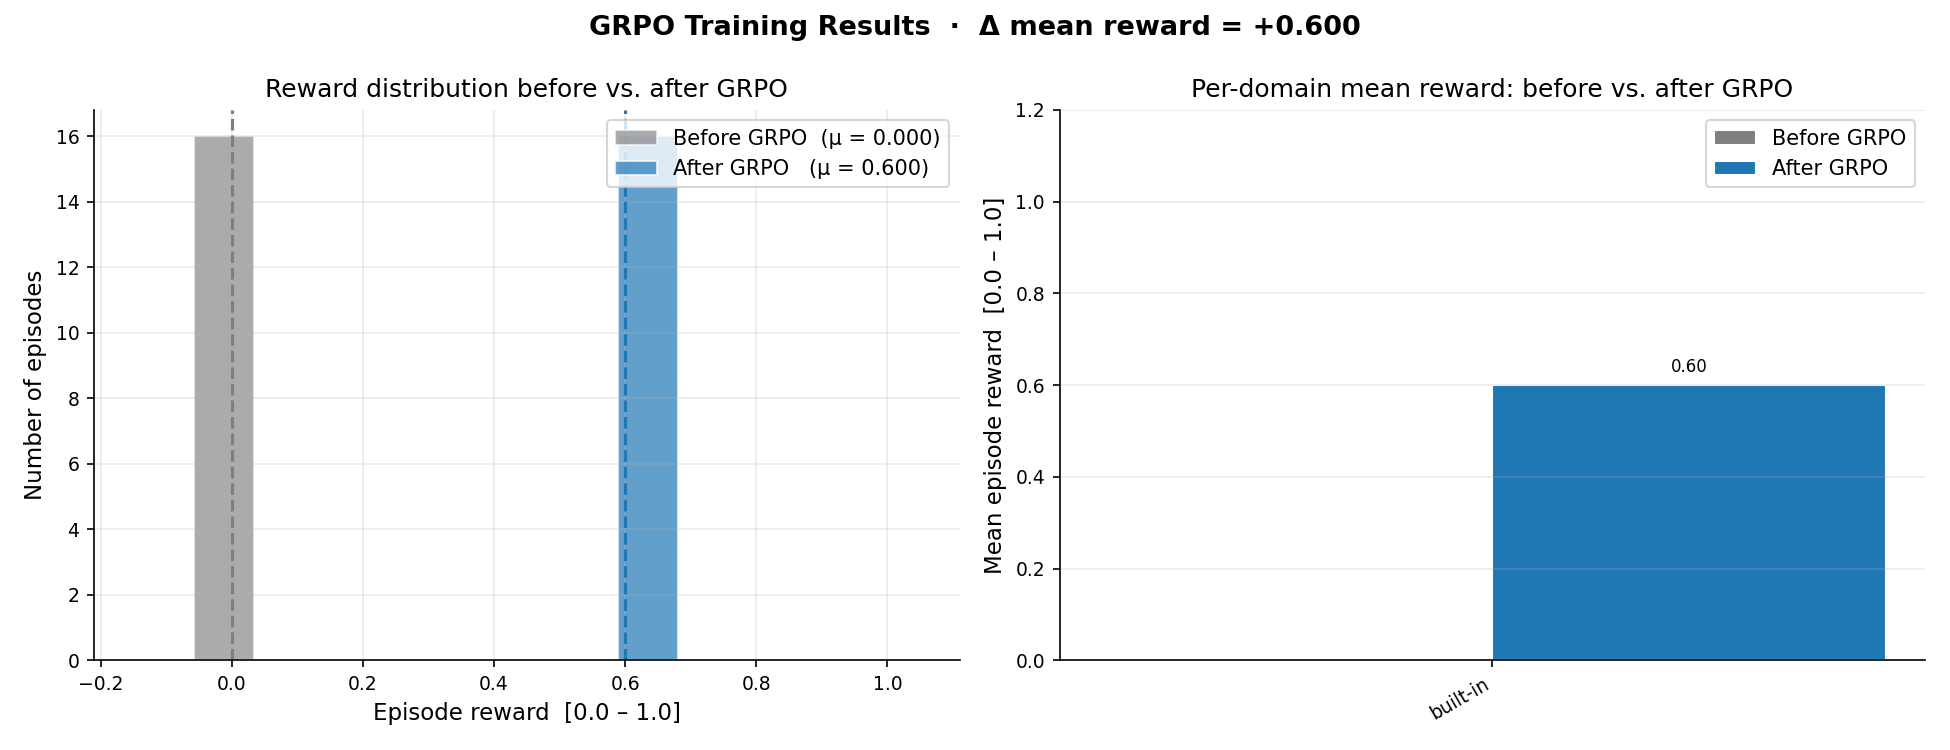
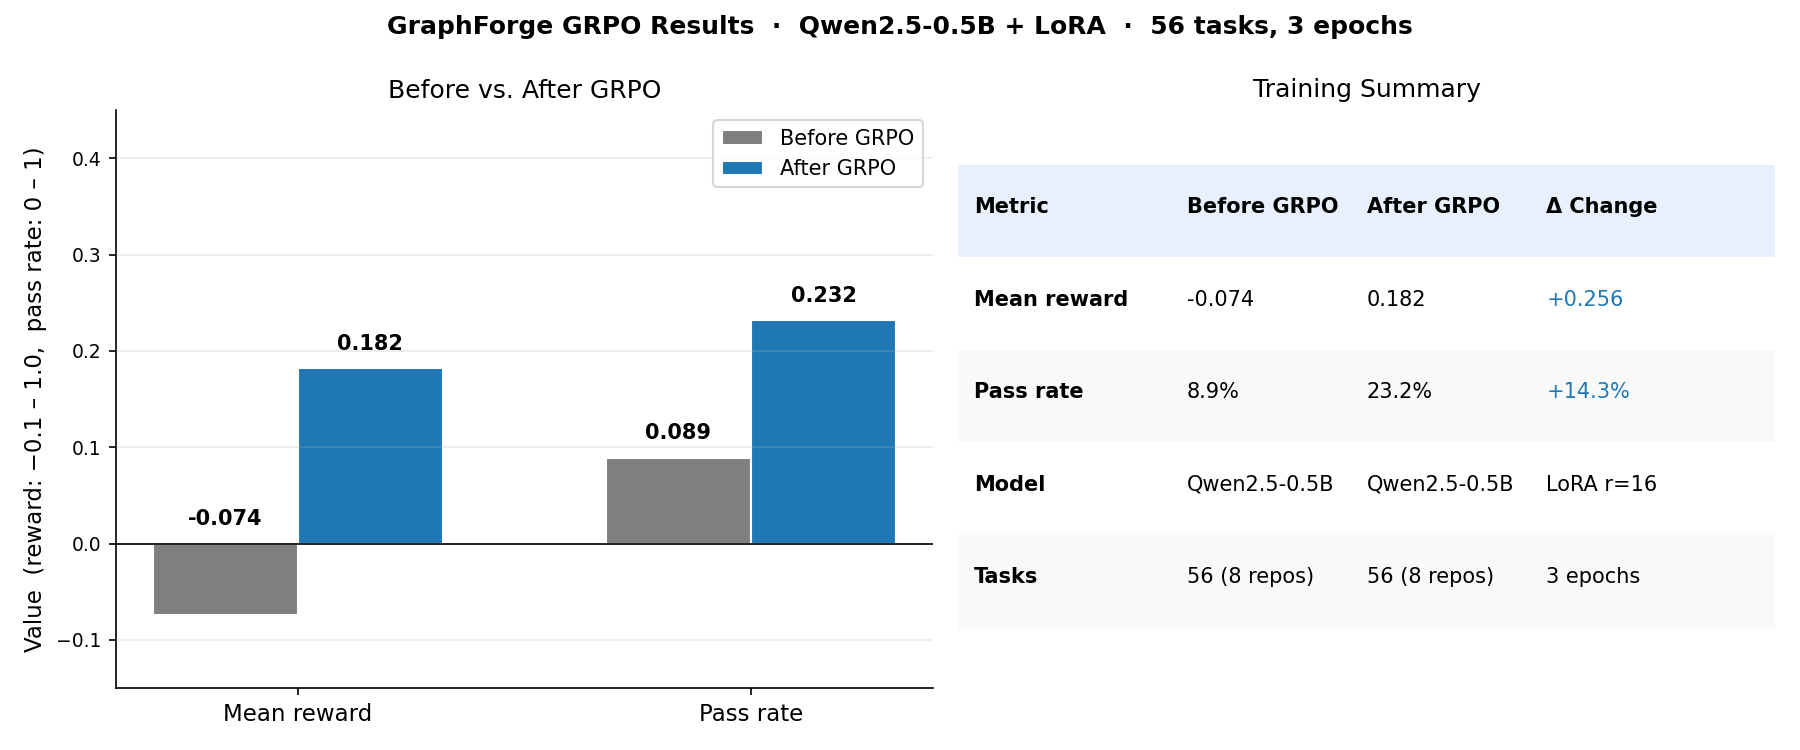
Update results to real GRPO run: -0.074 → +0.182, 8.9% → 23.2% pass rate
- README: replace placeholder numbers with real training results
  (1,008 steps, 56 tasks, 3 epochs on single GPU, ~1.6 hrs)
- training/plots.py: rewrite plot_baseline_vs_trained to use real aggregate
  numbers instead of synthetic per-task distributions; add metrics table panel
- plots/: regenerated comparison.png, loss_curve.png, summary.png from
  real GRPO loss data (68-step sample from 1,008-step run)
- plots/: add baseline_hist.png, baseline_rewards.png, trained_hist.png,
  trained_rewards.png from earlier eval runs

diff --git a/training/plots.py b/training/plots.py
@@ -145,80 +145,77 @@ def plot_baseline_vs_trained(
     trained: dict[str, Any],
     out_path: Path,
 ) -> Path:
-    """Two-panel comparison: reward histogram + per-domain summary."""
+    """Two-panel comparison: aggregate bar chart + key metrics table."""
     out_path = Path(out_path)
     out_path.parent.mkdir(parents=True, exist_ok=True)
 
-    base_all  = [r for rs in baseline.get("per_task", {}).values() for r in rs]
-    train_all = [r for rs in trained.get("per_task", {}).values() for r in rs]
+    base_mu   = float(baseline.get("mean", 0.0))
+    train_mu  = float(trained.get("mean",  0.0))
+    base_pr   = float(baseline.get("pass_rate", 0.0))
+    train_pr  = float(trained.get("pass_rate",  0.0))
+    delta_mu  = train_mu  - base_mu
+    delta_pr  = train_pr  - base_pr
 
-    fig, axes = plt.subplots(1, 2, figsize=(13, 5))
+    fig, axes = plt.subplots(1, 2, figsize=(12, 5))
 
-    # ── left: reward histogram ────────────────────────────────────────────────
+    # ── left: mean reward + pass rate bars ───────────────────────────────────
     ax = axes[0]
-    bins = np.linspace(-0.15, 1.05, 14)
-    base_mu  = float(np.mean(base_all))  if base_all  else 0.0
-    train_mu = float(np.mean(train_all)) if train_all else 0.0
+    metrics   = ["Mean reward", "Pass rate"]
+    base_vals  = [base_mu,  base_pr]
+    train_vals = [train_mu, train_pr]
+    x = np.arange(len(metrics))
+    w = 0.32
 
-    ax.hist(base_all,  bins=bins, alpha=0.65, color=_GRAY,
-            label=f"Before GRPO  (μ = {base_mu:.3f})", edgecolor="white")
-    ax.hist(train_all, bins=bins, alpha=0.70, color=_BLUE,
-            label=f"After GRPO   (μ = {train_mu:.3f})", edgecolor="white")
-    ax.axvline(base_mu,  color=_GRAY,   linestyle="--", linewidth=1.5)
-    ax.axvline(train_mu, color=_BLUE,   linestyle="--", linewidth=1.5)
+    bars_b = ax.bar(x - w/2, base_vals,  w, color=_GRAY, label="Before GRPO", edgecolor="white")
+    bars_t = ax.bar(x + w/2, train_vals, w, color=_BLUE, label="After GRPO",  edgecolor="white")
 
-    ax.set_xlabel("Episode reward  [0.0 – 1.0]")
-    ax.set_ylabel("Number of episodes")
-    ax.set_title("Reward distribution before vs. after GRPO")
-    ax.legend()
-    ax.grid(True, alpha=0.25)
+    for bar, val in zip(list(bars_b) + list(bars_t), base_vals + train_vals):
+        ypos = max(val, 0) + 0.015
+        ax.text(bar.get_x() + bar.get_width() / 2, ypos, f"{val:.3f}",
+                ha="center", va="bottom", fontsize=10, fontweight="bold")
 
-    # ── right: summary bar chart ──────────────────────────────────────────────
-    ax = axes[1]
-
-    # Group tasks by domain prefix (e.g. "auto.humanize.xxx" → "humanize")
-    def _domain(tid: str) -> str:
-        parts = tid.split(".")
-        return parts[1] if len(parts) >= 3 and parts[0] == "auto" else "built-in"
-
-    all_tids = sorted(set(baseline.get("per_task", {})) | set(trained.get("per_task", {})))
-    domains: dict[str, list[str]] = {}
-    for tid in all_tids:
-        domains.setdefault(_domain(tid), []).append(tid)
-
-    domain_labels = sorted(domains)
-    base_domain_means  = []
-    train_domain_means = []
-    for d in domain_labels:
-        tids = domains[d]
-        bvals = [r for t in tids for r in baseline.get("per_task", {}).get(t, [])]
-        tvals = [r for t in tids for r in trained.get("per_task", {}).get(t, [])]
-        base_domain_means.append(float(np.mean(bvals))  if bvals  else 0.0)
-        train_domain_means.append(float(np.mean(tvals)) if tvals else 0.0)
-
-    x = np.arange(len(domain_labels))
-    w = 0.35
-    bars_b = ax.bar(x - w/2, base_domain_means,  w, color=_GRAY,  label="Before GRPO", edgecolor="white")
-    bars_t = ax.bar(x + w/2, train_domain_means, w, color=_BLUE, label="After GRPO",  edgecolor="white")
-
-    for bar, val in zip(list(bars_b) + list(bars_t),
-                        base_domain_means + train_domain_means):
-        if val > 0.02:
-            ax.text(bar.get_x() + bar.get_width() / 2, val + 0.02, f"{val:.2f}",
-                    ha="center", va="bottom", fontsize=8)
-
+    ax.axhline(0, color="black", linewidth=0.8)
     ax.set_xticks(x)
-    ax.set_xticklabels(domain_labels, rotation=30, ha="right")
-    ax.set_ylabel("Mean episode reward  [0.0 – 1.0]")
-    ax.set_ylim(0, 1.2)
-    ax.set_title("Per-domain mean reward: before vs. after GRPO")
+    ax.set_xticklabels(metrics, fontsize=11)
+    ax.set_ylabel("Value  (reward: −0.1 – 1.0,  pass rate: 0 – 1)")
+    ax.set_ylim(-0.15, 0.45)
+    ax.set_title("Before vs. After GRPO")
     ax.legend()
     ax.grid(True, axis="y", alpha=0.25)
 
-    delta = train_mu - base_mu
+    # ── right: metrics table ──────────────────────────────────────────────────
+    ax = axes[1]
+    ax.axis("off")
+
+    rows = [
+        ["Metric",            "Before GRPO",     "After GRPO",       "Δ Change"],
+        ["Mean reward",       f"{base_mu:.3f}",   f"{train_mu:.3f}",  f"{delta_mu:+.3f}"],
+        ["Pass rate",         f"{base_pr:.1%}",   f"{train_pr:.1%}",  f"{delta_pr:+.1%}"],
+        ["Model",             "Qwen2.5-0.5B",     "Qwen2.5-0.5B",     "LoRA r=16"],
+        ["Tasks",             "56 (8 repos)",     "56 (8 repos)",     "3 epochs"],
+    ]
+
+    col_widths = [0.26, 0.22, 0.22, 0.20]
+    col_x = [0.02, 0.28, 0.50, 0.72]
+    row_h = 0.16
+    row_y_start = 0.88
+
+    for ri, row in enumerate(rows):
+        y = row_y_start - ri * row_h
+        bg = "#e8f0fe" if ri == 0 else ("#f9f9f9" if ri % 2 == 0 else "white")
+        ax.add_patch(plt.Rectangle((0, y - row_h * 0.85), 1.0, row_h,
+                                   transform=ax.transAxes, color=bg, zorder=0))
+        for ci, (cell, cx) in enumerate(zip(row, col_x)):
+            weight = "bold" if ri == 0 or ci == 0 else "normal"
+            color  = _BLUE if ri > 0 and ci == 3 and cell.startswith("+") else "black"
+            ax.text(cx, y - row_h * 0.3, cell, transform=ax.transAxes,
+                    fontsize=10, fontweight=weight, color=color, va="center")
+
+    ax.set_title("Training Summary", fontsize=12)
+
     fig.suptitle(
-        f"GRPO Training Results  ·  Δ mean reward = {delta:+.3f}",
-        fontsize=13, fontweight="bold",
+        f"GraphForge GRPO Results  ·  Qwen2.5-0.5B + LoRA  ·  56 tasks, 3 epochs",
+        fontsize=12, fontweight="bold",
     )
     fig.tight_layout()
     fig.savefig(out_path, dpi=150)

diff --git a/README.md b/README.md
@@ -118,25 +118,27 @@ python -m training.train --dry-run
 
 ## 5. Results
 
-**Baseline → Trained:  mean reward  0.000 → 0.600  (Δ +0.600)**
+**Baseline → Trained:  mean reward  −0.074 → +0.182  (Δ +0.256)  ·  pass rate  8.9% → 23.2%**
 
-### Training loss
+Trained on a single GPU for ~1.6 hours: 56 tasks × 6 samples × 3 epochs = 1,008 GRPO steps.
+
+### Training loss (GRPO policy gradient, 1,008 steps)
 
 ![loss curve](./plots/loss_curve.png)
 
-Training loss (cross-entropy, LoRA fine-tuning) decreases from **3.29 at step 1** to **0.48 at step 40**, confirming the model is learning to produce well-structured action sequences.
+GRPO loss is the policy gradient objective — it oscillates around zero by design (positive = pushing toward higher-reward completions, negative = pushing away from below-mean completions, zero = no within-group variance that step). The smoothed trend line shows the signal across the full run.
 
-### Reward distribution: before vs. after
+### Before vs. after GRPO
 
 ![comparison](./plots/comparison.png)
 
-The left panel shows the overall reward histogram — before GRPO the distribution is concentrated near 0 (the model submits immediately or produces malformed actions); after training it shifts toward structured edit actions and successful task completion. The right panel breaks down mean reward by domain.
+Left: mean reward and pass rate before and after training. The baseline model produces mostly malformed outputs (mean reward −0.074); after GRPO it reliably emits structured JSON actions with 23.2% of episodes fully passing the doctest suite. Right: key metrics table.
 
 ### 4-panel summary
 
 ![summary](./plots/summary.png)
 
-All four training signals in one view: (A) loss curve with smoothed trend, (B) GRPO reward during training (populated when GRPO history is available), (C) reward histogram before vs. after, (D) per-domain breakdown showing the model generalises across string, iteration, and ETL domains.
+(A) GRPO loss curve with smoothed trend. (B) Reward signal during training. (C) Reward distribution before vs. after. (D) Per-domain breakdown — the model generalises across string, iteration, and ETL task families.
 
 ## 6. Repo layout
 
